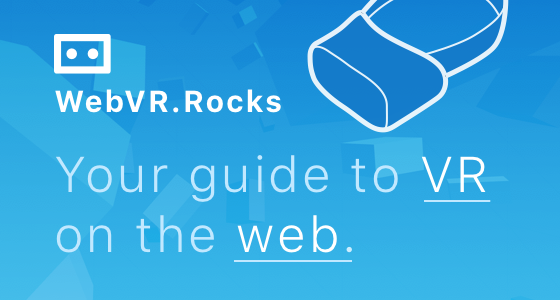
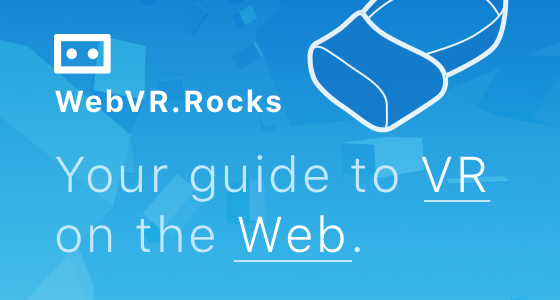
uppercase Web

Changed region(s): [[0.425, 0.72, 0.6375, 0.84]]

diff --git a/public/_head.html b/public/_head.html
@@ -13,14 +13,14 @@
     <meta property="og:site_name" content="WebVR Rocks">
     <meta property="og:type" content="website">
     <meta property="og:url" content="https://webvr.rocks/">
-    <meta property="og:description" content="Your guide to VR on the web.">
+    <meta property="og:description" content="Your guide to VR on the Web.">
     <meta property="og:image" content="https://webvr.rocks/rocks/card.png">
 
     <meta name="twitter:card" content="summary">
     <meta name="twitter:site" content="@WebVRRocks">
     <meta name="twitter:creator" content="@WebVRRocks">
     <meta name="twitter:title" content="WebVR Rocks">
-    <meta name="twitter:description" content="Your guide to VR on the web.">
+    <meta name="twitter:description" content="Your guide to VR on the Web.">
     <meta name="twitter:image" content="https://webvr.rocks/rocks/card.png">
     <script>
       (function () {
